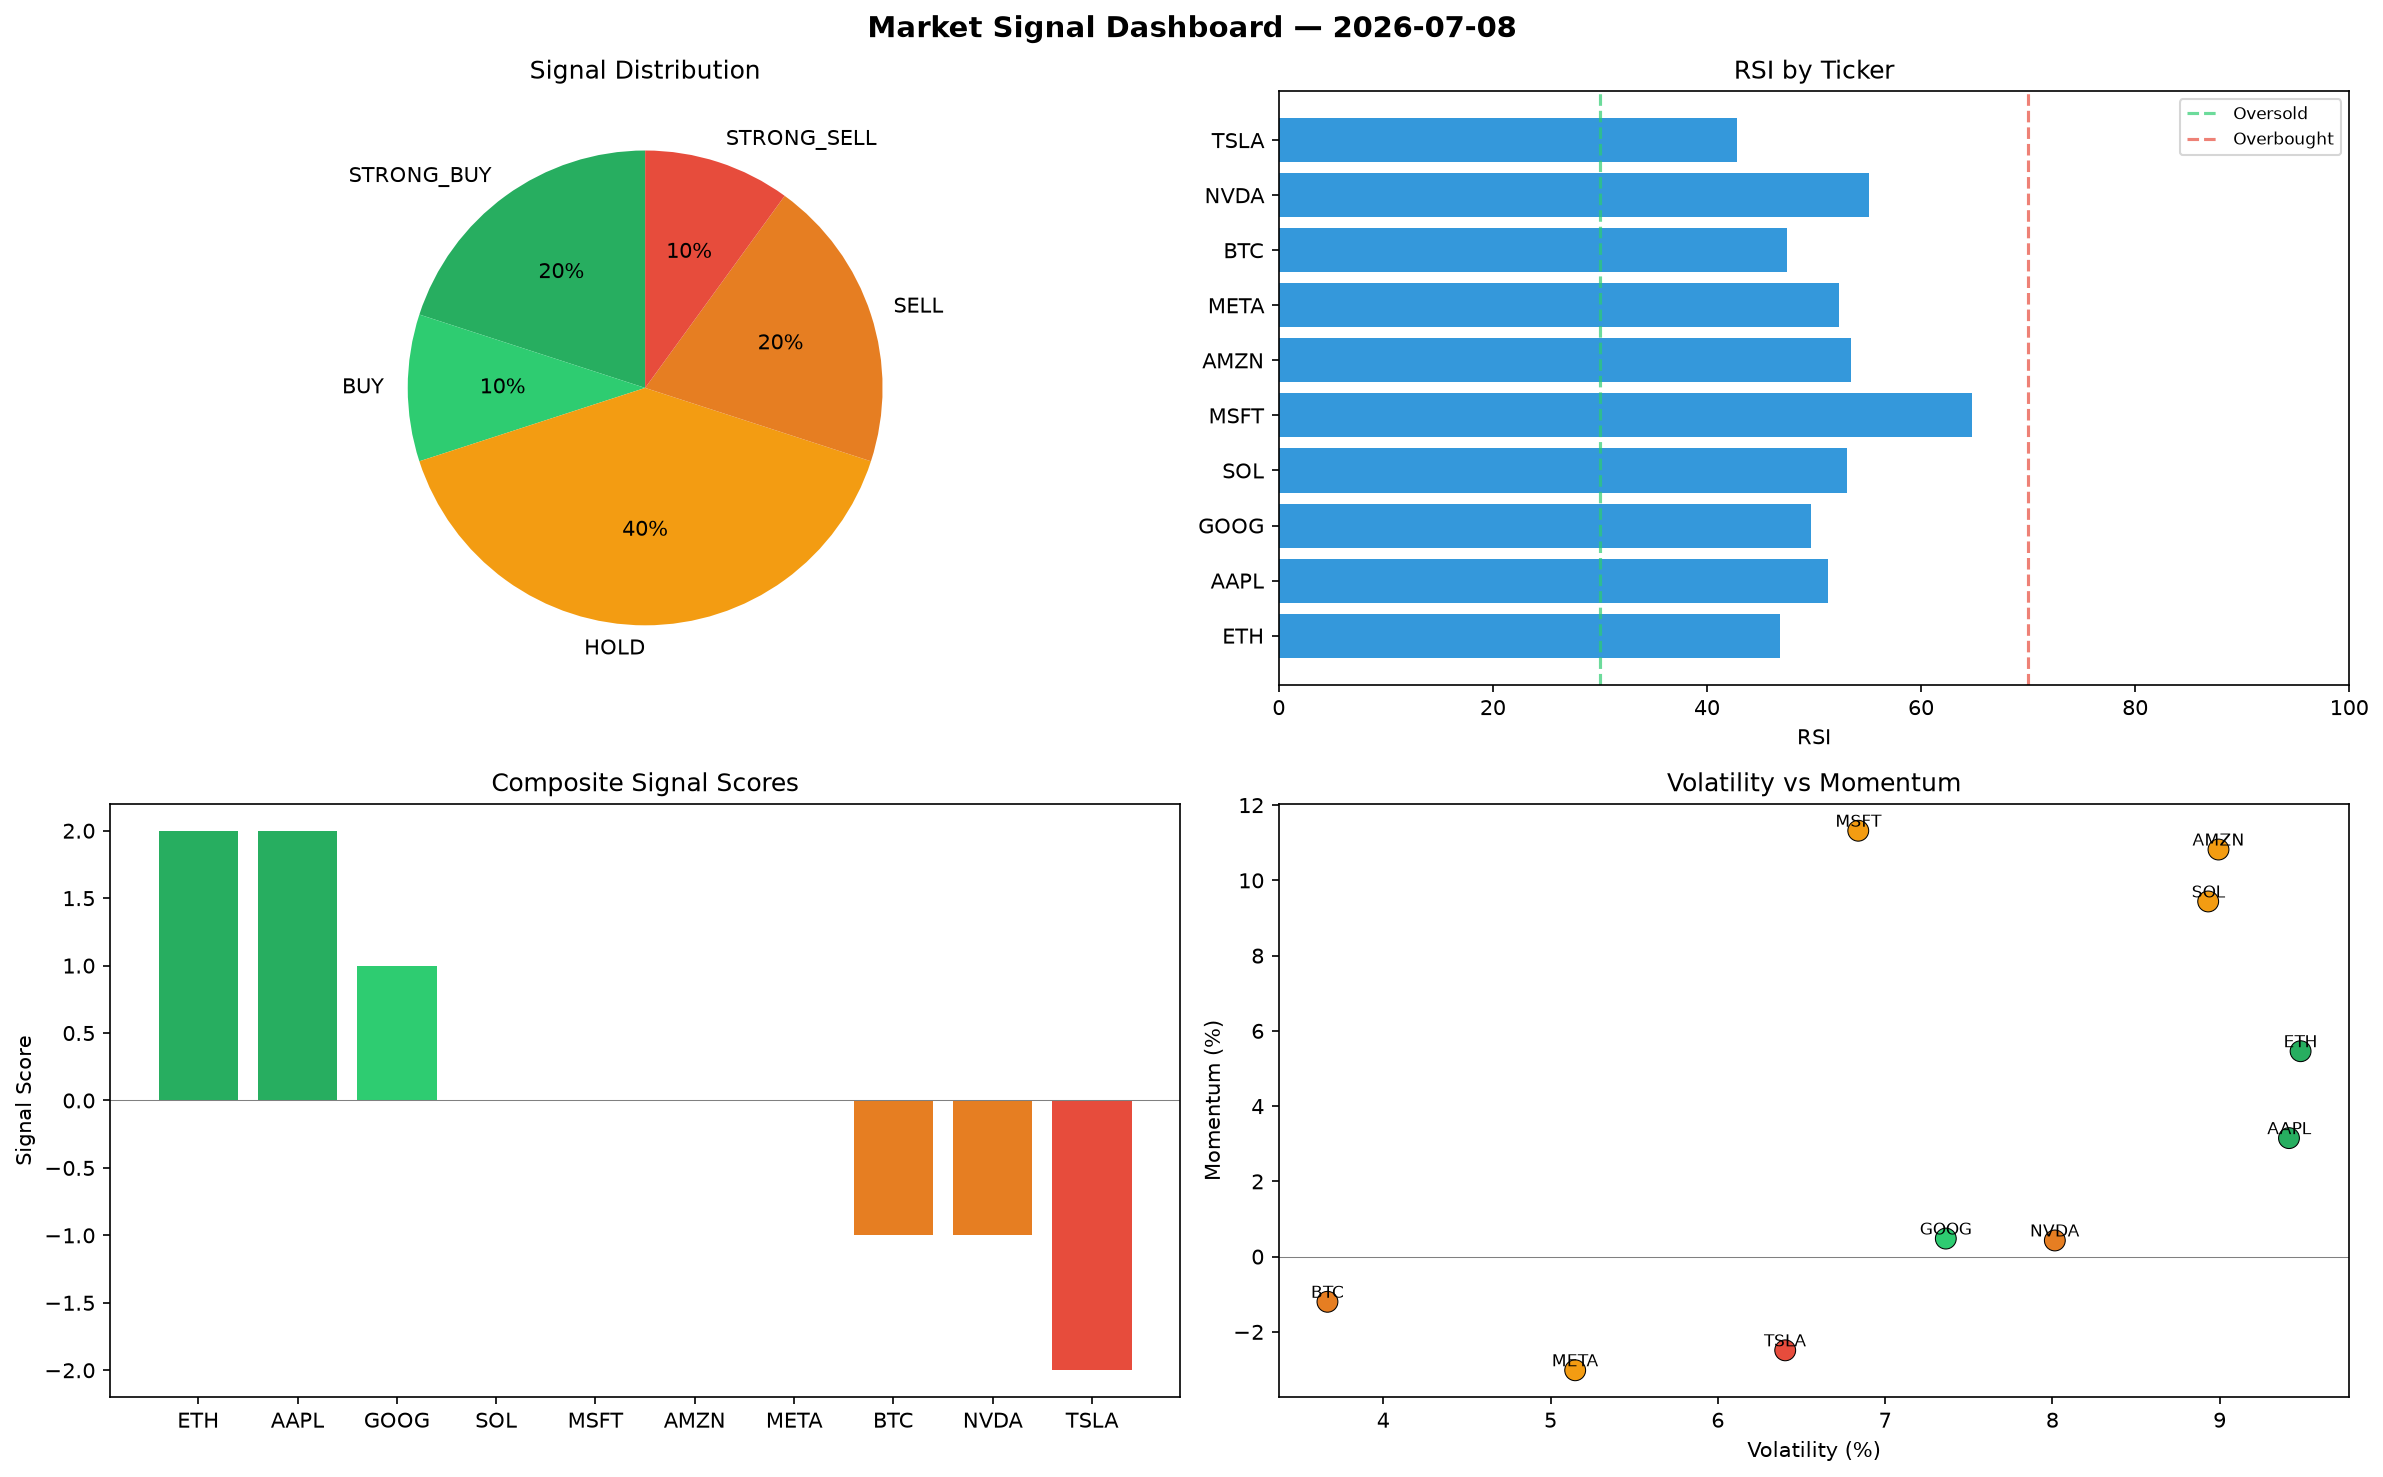
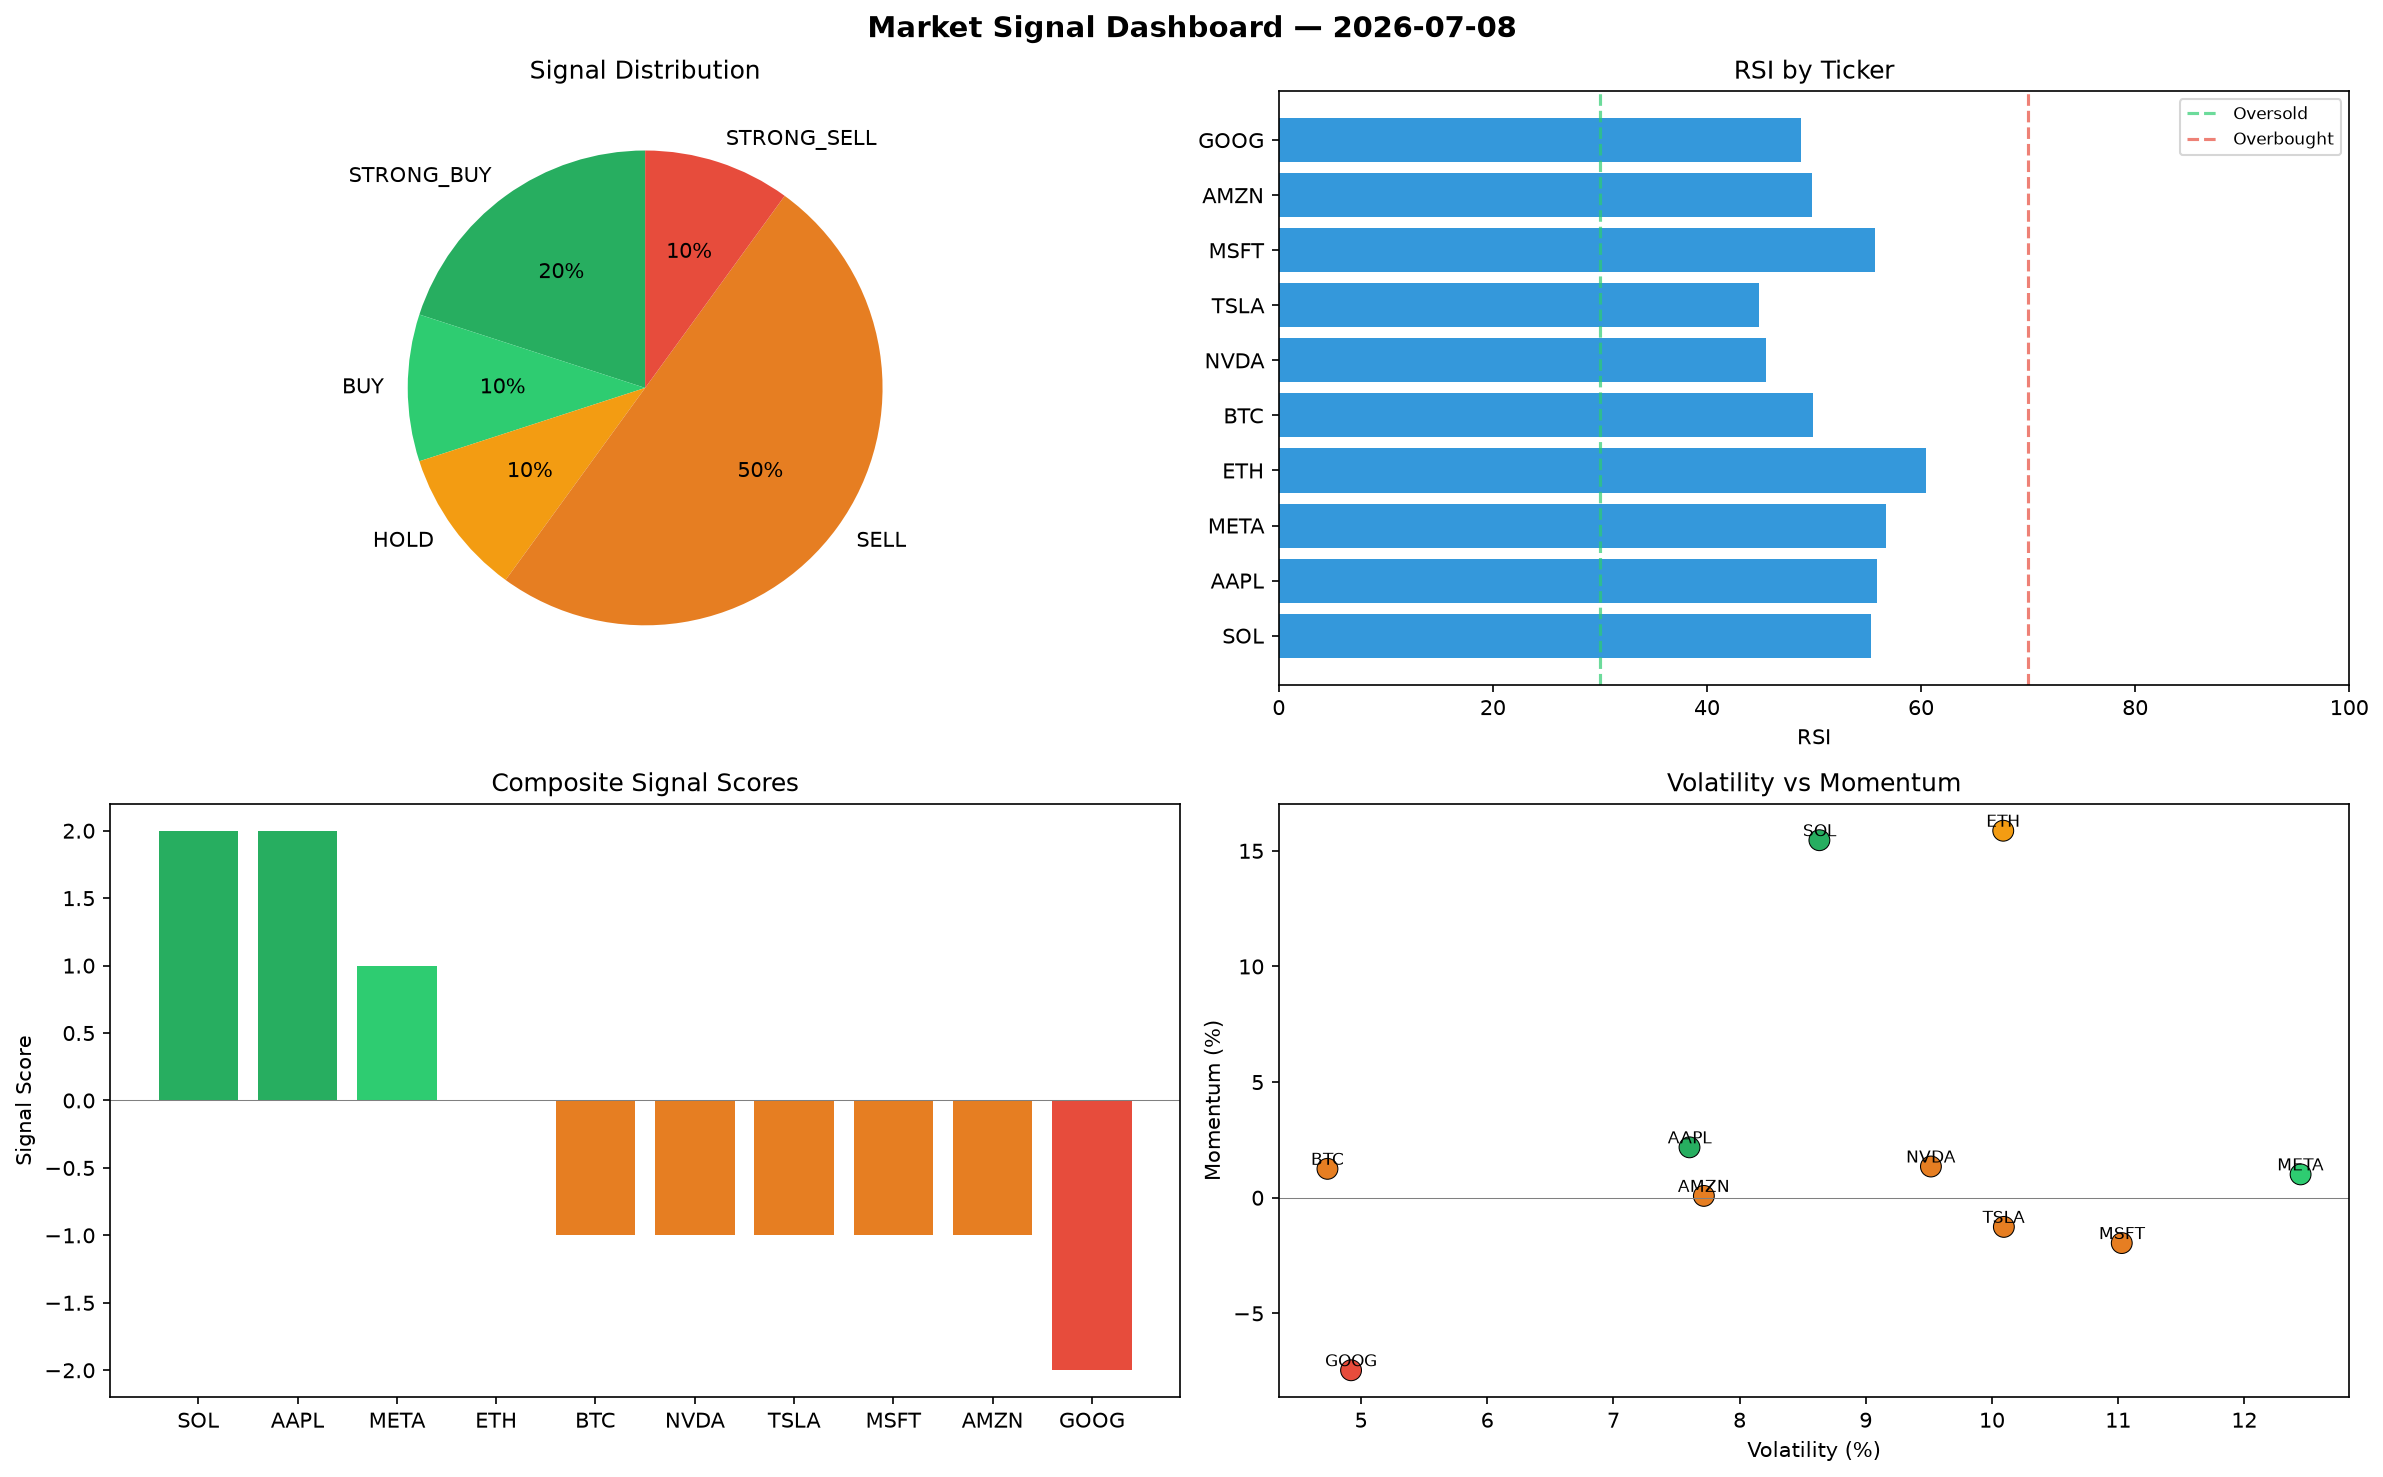
automated-bots: market signals 2026-07-08T16:14

diff --git a/logs/2026-07-08.md b/logs/2026-07-08.md
@@ -1,6 +1,6 @@
 # Market Signal Report — 2026-07-08
 
-**Run ID:** `376526b1c5` | **Buy:** 3 | **Sell:** 3 | **Hold:** 4
+**Run ID:** `cea9dc2d63` | **Buy:** 3 | **Sell:** 6 | **Hold:** 1
 
 ![Dashboard](2026-07-08_dashboard.png)
 
@@ -8,28 +8,28 @@
 
 | Ticker | Price | Signal | Score | RSI | Momentum | Confidence |
 |--------|-------|--------|-------|-----|----------|------------|
-| ETH | $4299.44 | **STRONG_BUY** | 2 | 46.78 | 0.0546 | 0.5 |
-| AAPL | $2897.52 | **STRONG_BUY** | 2 | 51.3 | 0.0315 | 0.5 |
-| GOOG | $668.07 | **BUY** | 1 | 49.71 | 0.0048 | 0.25 |
-| SOL | $4840.07 | **HOLD** | 0 | 53.04 | 0.0944 | 0.0 |
-| MSFT | $2502.67 | **HOLD** | 0 | 64.76 | 0.1132 | 0.0 |
-| AMZN | $916.75 | **HOLD** | 0 | 53.45 | 0.1082 | 0.0 |
-| META | $248.71 | **HOLD** | 0 | 52.32 | -0.0302 | 0.0 |
-| BTC | $1755.87 | **SELL** | -1 | 47.43 | -0.012 | 0.25 |
-| NVDA | $1614.66 | **SELL** | -1 | 55.11 | 0.0043 | 0.25 |
-| TSLA | $2802.04 | **STRONG_SELL** | -2 | 42.76 | -0.0249 | 0.5 |
+| SOL | $214.98 | **STRONG_BUY** | 2 | 55.28 | 0.1546 | 0.5 |
+| AAPL | $2454.62 | **STRONG_BUY** | 2 | 55.92 | 0.0218 | 0.5 |
+| META | $3190.94 | **BUY** | 1 | 56.75 | 0.0101 | 0.25 |
+| ETH | $4140.22 | **HOLD** | 0 | 60.43 | 0.1587 | 0.0 |
+| BTC | $210.6 | **SELL** | -1 | 49.89 | 0.0125 | 0.25 |
+| NVDA | $1631.15 | **SELL** | -1 | 45.56 | 0.0135 | 0.25 |
+| TSLA | $878.07 | **SELL** | -1 | 44.83 | -0.0126 | 0.25 |
+| MSFT | $3341.48 | **SELL** | -1 | 55.68 | -0.0196 | 0.25 |
+| AMZN | $1285.89 | **SELL** | -1 | 49.77 | 0.0008 | 0.25 |
+| GOOG | $2206.99 | **STRONG_SELL** | -2 | 48.76 | -0.0746 | 0.5 |
 
 ## Delta vs Yesterday
 
 | Ticker | Today | Yesterday | Price Change | Signal Changed |
 |--------|-------|-----------|-------------|----------------|
-| ETH | STRONG_BUY | HOLD | 📈 2.77% | ⚠ YES |
-| AAPL | STRONG_BUY | STRONG_BUY | 📉 -11.24% | — |
-| GOOG | BUY | HOLD | 📉 -44.04% | ⚠ YES |
-| SOL | HOLD | SELL | 📈 204.11% | ⚠ YES |
-| MSFT | HOLD | HOLD | 📉 -31.74% | — |
-| AMZN | HOLD | STRONG_BUY | 📉 -62.79% | ⚠ YES |
-| META | HOLD | STRONG_BUY | 📉 -93.53% | ⚠ YES |
-| BTC | SELL | STRONG_BUY | 📉 -58.17% | ⚠ YES |
-| NVDA | SELL | HOLD | 📈 56.37% | ⚠ YES |
-| TSLA | STRONG_SELL | BUY | 📉 -23.95% | ⚠ YES |
+| SOL | STRONG_BUY | SELL | 📉 -86.49% | ⚠ YES |
+| AAPL | STRONG_BUY | STRONG_BUY | 📉 -24.81% | — |
+| META | BUY | STRONG_BUY | 📉 -16.93% | ⚠ YES |
+| ETH | HOLD | HOLD | 📉 -1.03% | — |
+| BTC | SELL | STRONG_BUY | 📉 -94.98% | ⚠ YES |
+| NVDA | SELL | HOLD | 📈 57.97% | ⚠ YES |
+| TSLA | SELL | BUY | 📉 -76.17% | ⚠ YES |
+| MSFT | SELL | HOLD | 📉 -8.87% | ⚠ YES |
+| AMZN | SELL | STRONG_BUY | 📉 -47.81% | ⚠ YES |
+| GOOG | STRONG_SELL | HOLD | 📈 84.87% | ⚠ YES |
